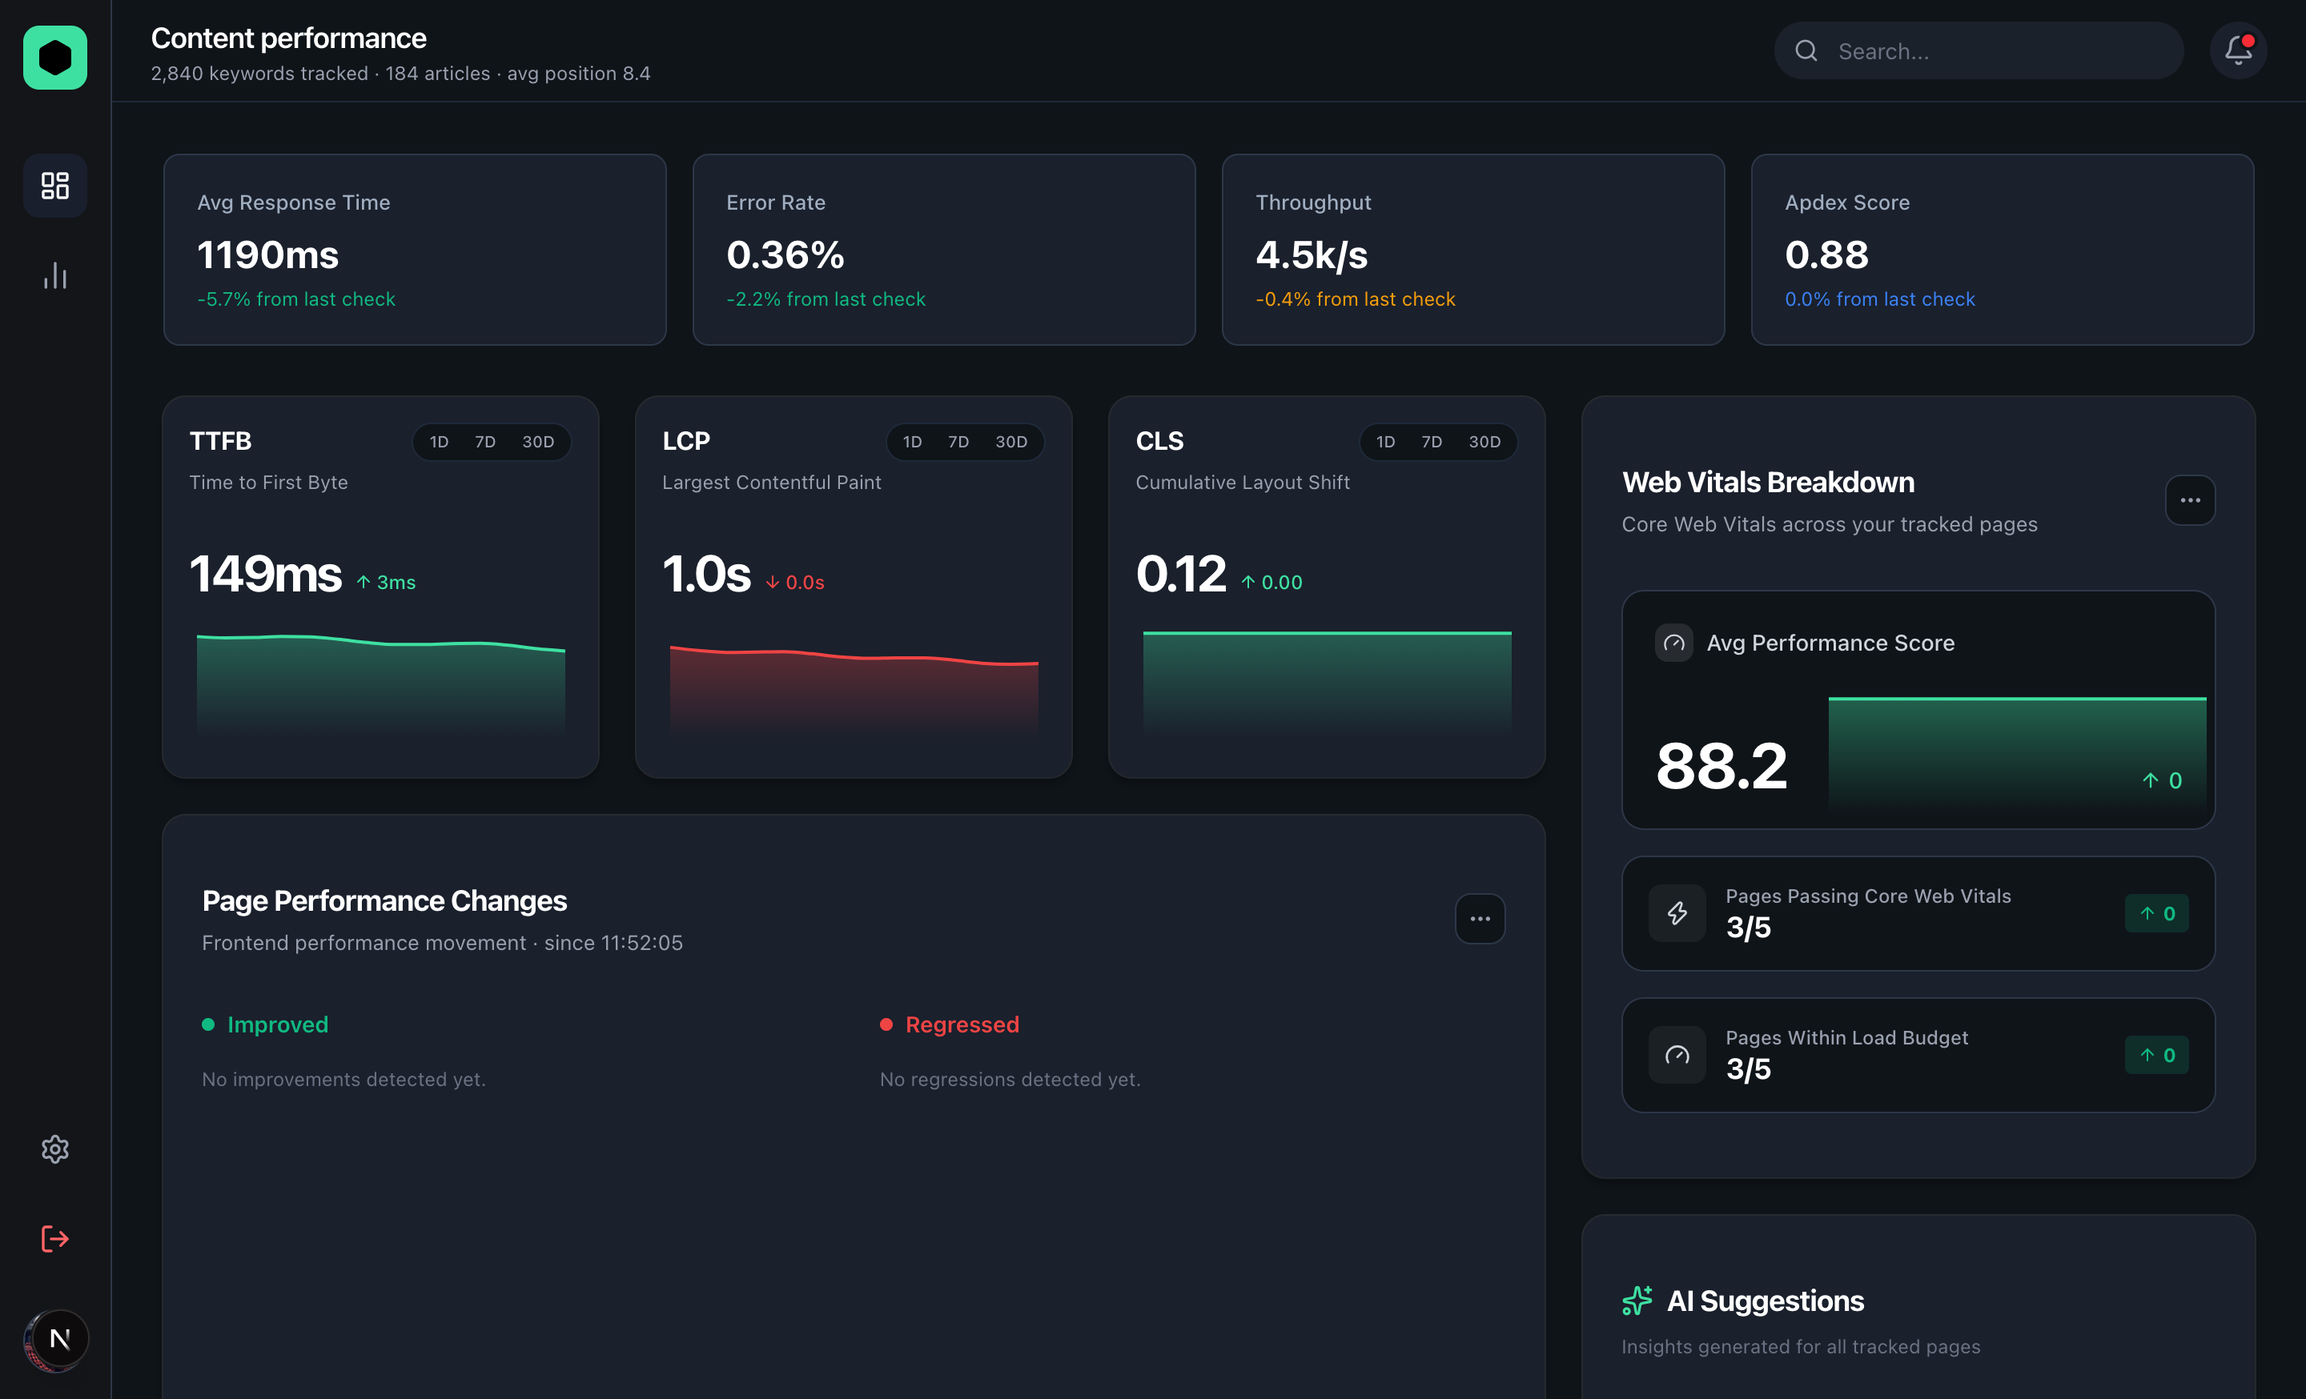
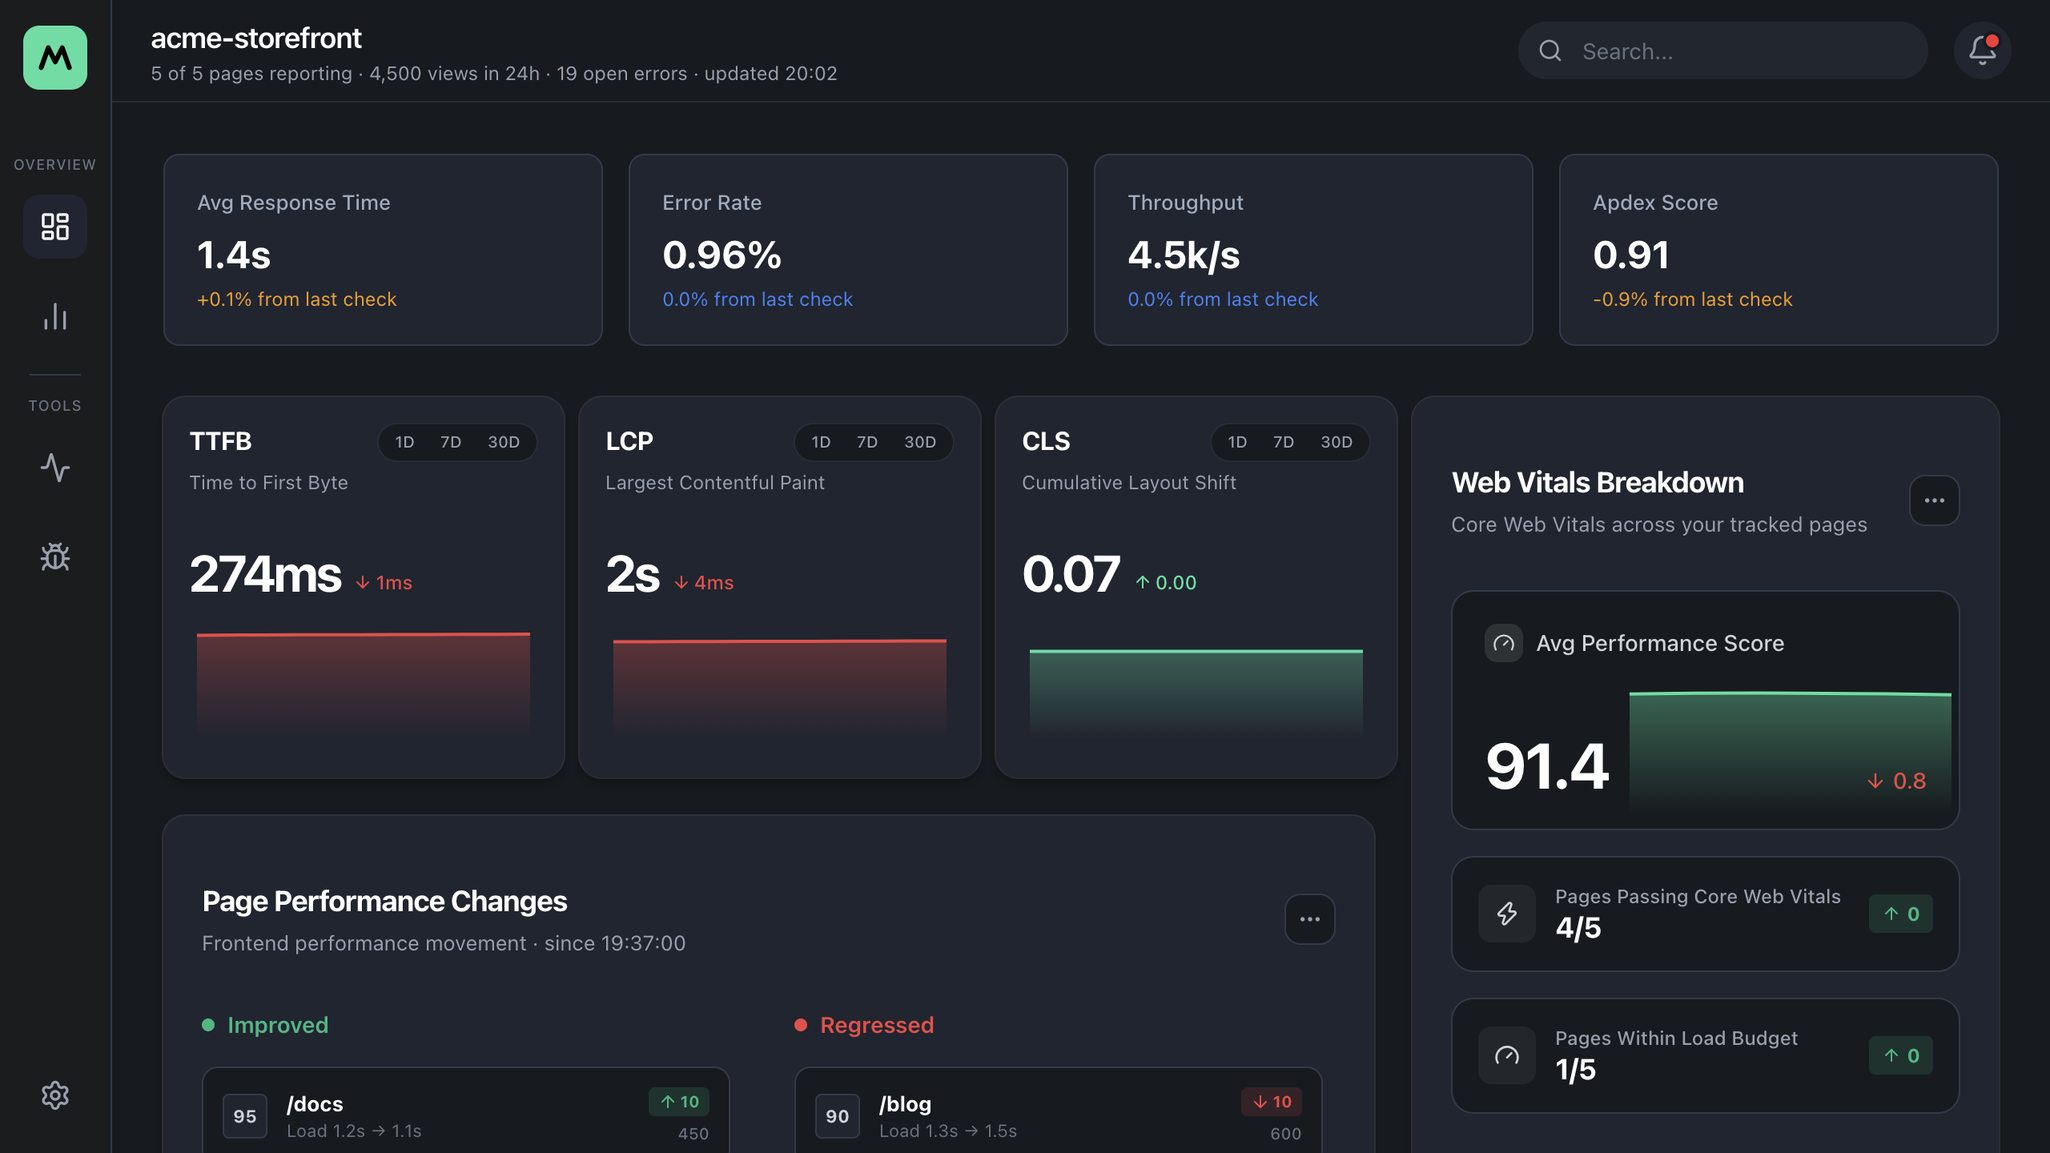
Readme updated

diff --git a/cypress/e2e/screenshots.cy.ts b/cypress/e2e/screenshots.cy.ts
@@ -1,9 +1,50 @@
+export {}; // make this file a module so top-level names do not clash across specs
 // Captures screenshots into cypress/screenshots/ only (never docs/images; Kelly owns those). Run: npx cypress run --spec cypress/e2e/screenshots.cy.ts
+// Every API the pages call is stubbed with fake sample data, so real New Relic/Sentry numbers never end up in a screenshot.
+const PAGES = [
+  ["Homepage", "home", "/", { loadTime: 900, lcp: 1400, ttfb: 180, cls: 0.05, inp: 120, errorRate: 0.3, throughput: 2400, apdexScore: 0.96 }, 3],
+  ["Pricing", "pricing", "/pricing", { loadTime: 2400, lcp: 3100, ttfb: 420, cls: 0.12, inp: 310, errorRate: 1.0, throughput: 800, apdexScore: 0.84 }, 6],
+  ["Blog", "blog", "/blog", { loadTime: 1500, lcp: 2100, ttfb: 300, cls: 0.1, inp: 180, errorRate: 3.0, throughput: 600, apdexScore: 0.9 }, 9],
+  ["Docs", "docs", "/docs", { loadTime: 1100, lcp: 1600, ttfb: 210, cls: 0.02, inp: 90, errorRate: 0.1, throughput: 450, apdexScore: 0.95 }, 0],
+  ["Checkout", "checkout", "/checkout", { loadTime: 1300, lcp: 1900, ttfb: 260, cls: 0.04, inp: 150, errorRate: 0.4, throughput: 250, apdexScore: 0.92 }, 1],
+] as const;
+const status = (nr: { loadTime: number; errorRate: number }) => (nr.loadTime > 2000 || nr.errorRate > 2 ? "Warning" : "Healthy");
+
+// `drift` scales the numbers so older snapshots differ a little and the trend charts have a shape.
+const pages = (drift: number, at: string) =>
+  PAGES.map(([name, slug, url, nr, errors], i) => {
+    const d = 1 + drift * (i % 2 ? 1 : -1);
+    const m = { ...nr, fid: 0, loadTime: Math.round(nr.loadTime * d), lcp: Math.round(nr.lcp * d), ttfb: Math.round(nr.ttfb * d), apdexScore: Math.min(1, +(nr.apdexScore / d).toFixed(2)) };
+    return {
+      name, slug, url, visitors: String(nr.throughput), status: status(m), newRelic: m, recordedAt: at,
+      sentry: { errorCount: errors, errorRate: 0, warningCount: 0, latestErrors: errors ? [{ title: "TypeError: Cannot read properties of undefined (reading 'items')", count: errors, lastSeen: at }] : [] },
+    };
+  });
+const history = [0.12, 0.09, 0.07, 0.05, 0.03, 0].map((drift, i) => {
+  const timestamp = `2026-10-03T14:${String(7 + i * 5).padStart(2, "0")}:00.000Z`;
+  return { timestamp, pages: pages(drift, timestamp) };
+});
+const latest = history[history.length - 1];
+
 describe("README screenshots", () => {
-  beforeEach(() => cy.viewport(1440, 900));
+  beforeEach(() => {
+    cy.viewport(1280, 720); // headless Electron's window size; a bigger viewport gets cropped
+    cy.intercept("GET", "/api/metrics", { configured: true, project: "acme-storefront", pages: latest.pages, history, timestamp: latest.timestamp });
+    cy.intercept("GET", "/api/timings", { items: [{ name: "New Relic: metrics", value: 412 }, { name: "Sentry: events", value: 268 }, { name: "New Relic: discover pages", value: 190 }] });
+    cy.intercept("POST", "/api/analyze", {
+      analysis: "Pricing is the slowest page and Blog has the most errors.",
+      alerts: [
+        { severity: "high", page: "Pricing", metric: "lcp", message: "LCP is 3.1s on Pricing. Preload the hero image and serve it as WebP." },
+        { severity: "medium", page: "Blog", metric: "errorRate", message: "Error rate is 3.0% on Blog. Check the TypeError reported in Sentry." },
+      ],
+      recommendations: ["Lazy-load images below the fold on Blog.", "Cache the pricing API response at the edge."],
+    });
+  });
+
   [["/", "dashboard"], ["/performance", "performance"]].forEach(([path, name]) => {
     it(`captures ${name}`, () => {
       cy.visit(path);
+      cy.contains("acme-storefront").should("be.visible");
       cy.wait(2000); // let charts animate in
       cy.screenshot(name, { capture: "viewport", overwrite: true });
     });

diff --git a/README.md b/README.md
@@ -1,79 +1,134 @@
 # MetricFlow — Performance Dashboard
 
-MetricFlow is a local web dashboard that pulls page-performance data from New Relic and errors from Sentry, and uses AI (Gemini) to turn them into insights and alerts. Start it with one command: `npx @karan171996/metricflow`.
+MetricFlow is a local dashboard for your website. It reads real-user performance metrics from **New Relic** and JavaScript errors from **Sentry**, joins them per page, and can ask an AI model (Gemini, Claude or OpenAI) what to fix first.
 
-> Status: early (`v0.1.0`). The npm package is `@karan171996/metricflow` (run it with `npx @karan171996/metricflow`; after a global install the command is `performance-dashboard`). Not yet published to npm, so `npx` works only after publishing.
+It runs on your own machine with your own keys. There is no MetricFlow server and no account to create.
 
-## Features
+```bash
+npx @karan171996/metricflow
+```
 
-- **Dashboard** (`/`): KPI cards, line/bar/donut charts, Core Web Vitals cards, visibility breakdown, "what moved" and AI suggestions.
-- **Performance hub** (`/performance`): per-page table and metrics, with a drill-down at `/performance/[slug]` (KPIs, charts, hourly breakdown, related errors).
-- **Settings** (`/settings`): API keys, thresholds, notification preferences, export, team members.
-- **Data sources**: New Relic (load time, LCP, TTFB, FID, error rate, throughput, Apdex) and Sentry (error count, warnings, latest errors).
-- **API routes** (Next.js route handlers): `GET /api/metrics`, `POST /api/analyze`, `GET /api/health`, `/api/timings`.
-- **CLI**: `performance-dashboard` starts the production server and opens your browser. Supports `--json` and `--no-color`.
-
-## Screenshots
-
-### Dashboard
+> **Status: early, work in progress (v0.1.5).** Things will change. Bug reports and feedback are welcome in [Issues](https://github.com/karan171996/MetricFlow/issues).
 
 ![Dashboard](https://raw.githubusercontent.com/karan171996/MetricFlow/main/docs/images/dashboard.png)
 
-### Performance hub
-
-![Performance hub](https://raw.githubusercontent.com/karan171996/MetricFlow/main/docs/images/performance.png)
-
 _Screenshots use sample data, not real New Relic or Sentry numbers._
 
-### CLI
+## What you need
+
+| | Required? | Why |
+| --- | --- | --- |
+| Node.js `>=20.12` | Yes | Runs the dashboard |
+| A New Relic account, with the **Browser agent** on your site | Yes | Page views, load time, Core Web Vitals, Apdex |
+| A Sentry project | Yes | Error counts and latest errors per page |
+| A Gemini, Claude or OpenAI API key | No | AI suggestions on the dashboard |
+
+New Relic and Sentry both have free plans, which are enough to try MetricFlow.
+
+## Get started in 4 steps
+
+### 1. Start the dashboard
+
+From any folder (usually your website's project folder):
+
+```bash
+npx @karan171996/metricflow
+```
 
 ```
-$ performance-dashboard
 ✔ Dashboard is running
   URL   http://localhost:3000
   Stop  Ctrl+C
 ```
 
-## Requirements
+Your browser opens the dashboard. The first time, it shows **Connect your data**, because no keys are set yet.
 
-- Node.js `>=20.12`
-- Optional but needed for real data: New Relic, Sentry and Gemini keys
-
-## Quick start
+To install it in a project instead of using `npx` each time:
 
 ```bash
-git clone https://github.com/karan171996/MetricFlow.git
-cd MetricFlow
-npm install
-cp .env.local.example .env.local   # then fill in your keys
-npm run dev                        # development, http://localhost:3000
+npm install --save-dev @karan171996/metricflow
+npx performance-dashboard
 ```
 
-Production-style run through the CLI (needs a build first):
+The dashboard header shows the `name` from that project's `package.json`.
 
-```bash
-npm run build
-node bin/cli.mjs                   # or `performance-dashboard` once installed/linked
-```
+### 2. Add your keys
 
-### Installing into an existing app
+You need five values. Where to find each one:
 
-Tested by installing the packed tarball into an older Create React App project (react-scripts 2.1.3). Notes from that test:
-
-- **Install size:** MetricFlow pulls in a large dependency tree (Next.js, Recharts, Cypress and others), so expect a heavy `npm install`.
-- **Lockfiles:** if the host project uses yarn, installing with npm adds a `package-lock.json` next to `yarn.lock`. Use one package manager and commit only its lockfile.
-- **Old toolchains:** the New Relic browser agent may not work in projects on webpack 4 (Create React App 2). This is untested; check before relying on it.
-
-### Environment variables
-
-Set these in `.env.local` (see `.env.local.example`). The CLI loads `.env.local` and `.env` from the folder you run it in.
-
-| Variable | Purpose |
+| Value | Where to find it |
 | --- | --- |
-| `NEXT_PUBLIC_NEWRELIC_ACCOUNT_ID`, `NEWRELIC_API_KEY` | Read metrics from New Relic |
-| `SENTRY_API_KEY`, `SENTRY_ORG_SLUG`, `SENTRY_PROJECT_ID` | Read errors from Sentry |
-| `GEMINI_API_KEY` | AI analysis (`/api/analyze`) |
-| `SENTRY_DSN`, `NEWRELIC_INSERT_KEY` | Only for `npm run send-test-data`, which writes a dummy event to each platform |
+| New Relic **User API key** | New Relic → API keys → create key, type **User**. Starts with `NRAK-`. |
+| New Relic **account ID** | A plain number, shown next to your keys in New Relic. |
+| Sentry **auth token** | Sentry → Settings → Auth Tokens. Scopes: `project:read`, `event:read`. |
+| Sentry **organization slug** | The name in your Sentry URL: `sentry.io/organizations/<slug>/`. |
+| Sentry **project slug** | Sentry → Project settings. |
+
+Save them in one of two ways:
+
+- **On the Setup page.** Click **Set up keys** on the dashboard (or open `/setup`), paste the values and save. MetricFlow checks each key with New Relic and Sentry before saving it.
+- **In a `.env.local` file** in the folder where you run the command:
+
+  ```bash
+  NEXT_PUBLIC_NEWRELIC_ACCOUNT_ID=1234567
+  NEWRELIC_API_KEY=NRAK-...
+  SENTRY_API_KEY=sntrys_...
+  SENTRY_ORG_SLUG=your-org
+  SENTRY_PROJECT_ID=your-project
+  ```
+
+  Restart the dashboard after editing the file.
+
+> **Using `npx`?** Keys saved on the Setup page are stored inside the downloaded package folder, so they can disappear when npm clears its cache or you update MetricFlow. For keys that stay put, use `.env.local` in your project folder. Add `.env.local` to your `.gitignore` so the keys are never committed.
+
+**Optional AI suggestions:** on the Setup page, add a Gemini, Claude or OpenAI key, or set one in `.env.local` (`GEMINI_API_KEY`, `CLAUDE_API_KEY` or `OPENAI_API_KEY`). If you set more than one, `AI_PROVIDER=gemini|claude|openai` picks which one is used.
+
+### 3. Send data from your site
+
+MetricFlow only reads data. Your website has to send it to New Relic and Sentry first. After saving your keys, click **Next: connect your app** (or open `/connect`). That page gives you copy-paste snippets:
+
+1. **New Relic Browser agent**: records page views, load timing and Core Web Vitals.
+2. **`emitMetric()` helper** (optional): sends your own numbers through the Browser agent.
+3. **Sentry**: sends JavaScript errors. Use your project's DSN.
+
+Add them to your site, deploy or run it, and open a few pages.
+
+### 4. Check that metrics arrive
+
+On `/connect`, the **Events received** panel shows a row for each source:
+
+- **Browser agent (page views)**
+- **Custom events (emitMetric / test event)**
+- **Sentry errors**
+
+Reload a few pages of your site and watch the rows turn green. New Relic can take a minute or two to show new data.
+
+To test without touching your site, add a New Relic **Ingest - License** key on `/connect` and click **Send test event**. This key is only used for the test button and is different from the User key.
+
+Then open the dashboard (`/`). Your top 20 pages (by page views, last 24 hours) appear automatically. The dashboard refreshes every 30 seconds.
+
+## What you'll see
+
+| Page | What it shows |
+| --- | --- |
+| **Dashboard** (`/`) | Average response time, error rate, throughput and Apdex; TTFB, LCP and CLS cards with trends; pages passing Core Web Vitals; what moved since the last check; AI suggestions |
+| **Performance** (`/performance`) | Every tracked page with its health. Click a row for that page's detail view |
+| **New Relic** (`/tools/new-relic`) | New Relic numbers only, per page |
+| **Sentry** (`/tools/sentry`) | Error count, latest error and when it was last seen, per page |
+| **Settings** (`/settings`) | Warning and critical thresholds used to mark pages Healthy, Warning or Critical |
+
+![Performance hub](https://raw.githubusercontent.com/karan171996/MetricFlow/main/docs/images/performance.png)
+
+## Troubleshooting
+
+| You see | What to do |
+| --- | --- |
+| **Connect your data** after adding keys | If you used `.env.local`, restart the dashboard. Check that all five values are set. |
+| A page says **No data yet** | That page has no page views in New Relic in the last 24 hours. Check the Browser agent is on that page, then reload it. |
+| **Could not load metrics** | New Relic rejected the request. Check the User API key and account ID on `/setup`, then click **Retry**. |
+| Error counts are always 0 | Check the Sentry token scopes (`project:read`, `event:read`) and that the project slug is right. |
+| `http://localhost:3000` shows a different app | Another app is using port 3000 over IPv6. Open `http://127.0.0.1:3000` instead, or pick another port: `npx @karan171996/metricflow 4000`. |
+| Port already in use | Start on another port: `npx @karan171996/metricflow 4000`. |
 
 ## CLI usage
 
@@ -89,6 +144,8 @@ performance-dashboard [port] [options]
 | `--no-color` | Disable colors (also honors `NO_COLOR` and non-TTY output) |
 | `--host <addr>` | Address to listen on. Default `127.0.0.1` (this machine only). `--host 0.0.0.0` exposes the dashboard, and the New Relic/Sentry data behind it, to your network and prints a warning |
 | `[port]` | Port to listen on; default `3000`. The `PORT` environment variable also works |
+
+The CLI loads `.env.local` and `.env` from the folder you run it in. Set `METRICFLOW_PROJECT_NAME` to change the name shown in the dashboard header.
 
 Examples:
 
@@ -110,38 +167,68 @@ Errors print what failed and how to fix it. Exit code `2` is bad usage, `1` is a
 $ performance-dashboard abc
 ✖ Invalid port "abc".
   → Use a number from 1 to 65535, e.g. performance-dashboard 4000
-
-$ performance-dashboard        # before `npm run build`
-✖ No build found.
-  → Run `npm run build` first (published packages include it).
 ```
 
 Human text goes to stdout; errors, warnings and spinners go to stderr. Full spec: [CLI_OUTPUT.md](https://github.com/karan171996/MetricFlow/blob/main/CLI_OUTPUT.md).
 
-## Project structure
+## All environment variables
+
+| Variable | Purpose |
+| --- | --- |
+| `NEXT_PUBLIC_NEWRELIC_ACCOUNT_ID`, `NEWRELIC_API_KEY` | Read metrics from New Relic (required) |
+| `SENTRY_API_KEY`, `SENTRY_ORG_SLUG`, `SENTRY_PROJECT_ID` | Read errors from Sentry (required) |
+| `GEMINI_API_KEY`, `CLAUDE_API_KEY`, `OPENAI_API_KEY` | AI suggestions (optional, any one) |
+| `AI_PROVIDER` | `gemini`, `claude` or `openai`; picks the AI key when several are set |
+| `NEWRELIC_INSERT_KEY` | Only for **Send test event** on `/connect` and `npm run send-test-data` |
+| `SENTRY_DSN` | Only for `npm run send-test-data` |
+| `METRICFLOW_PROJECT_NAME` | Overrides the project name in the header |
+
+## Develop from source
+
+```bash
+git clone https://github.com/karan171996/MetricFlow.git
+cd MetricFlow
+npm install
+cp .env.local.example .env.local   # then fill in your keys
+npm run dev                        # http://127.0.0.1:3000
+```
+
+Run the production build through the CLI:
+
+```bash
+npm run build
+node bin/cli.mjs
+```
+
+### Tests
+
+```bash
+npm test               # all tests, fake keys, no network
+npm run test:cli       # node:test suite only
+npm run test:real      # against your real accounts (.env.local)
+npm run cy:run         # Cypress tests (app must be running)
+npm run lint
+npm run send-test-data # one dummy event to Sentry and New Relic
+```
+
+`npm test` uses fake keys from `.env.test.example` and never reads `.env.local`. `npm run test:real` reads `.env.local` and never prints the keys. `send-test-data` needs `SENTRY_DSN` and `NEWRELIC_INSERT_KEY`.
+
+### Project structure
 
 ```
-app/            Next.js App Router: pages (/, /performance, /settings) and api/ route handlers
-components/     UI: DashboardCharts, Analytics, PerformanceHub, Settings, sidebar, ui (shadcn)
-lib/ hooks/ types/   Data transforms, metric history, shared types
+app/            Next.js App Router: pages and api/ route handlers
+components/     UI, one folder per feature; ui/ is generated shadcn code
+lib/            Data fetching (New Relic, Sentry), transforms, hooks
 bin/            CLI (cli.mjs) and output formatter (output.mjs)
-scripts/        send-test-data.mjs
-test/           CLI, hook and package tests (node:test)
+scripts/        send-test-data.mjs, test-env.mjs
+test/           node:test suites
 cypress/        End-to-end smoke test
 docs/images/    README screenshots (not shipped in the npm package)
 ```
 
-## Tests
-
-```bash
-npm run test:cli   # CLI, hook and package tests (node --test)
-npm run cy:run     # Cypress smoke test (needs the app running)
-npm run lint
-```
-
 ## Contributing
 
-1. Branch from `main`.
-2. Run `npm run lint` and `npm run test:cli` before opening a pull request.
+1. Fork the repo and branch from `main`.
+2. Run `npm run lint` and `npm test` before opening a pull request.
 3. Keep CLI output going through `bin/output.mjs` (`out.ok/info/warn/error/kv/spinner`), never `console.log`.
 4. This project uses a recent Next.js with breaking changes; read `node_modules/next/dist/docs/` before changing framework code.
